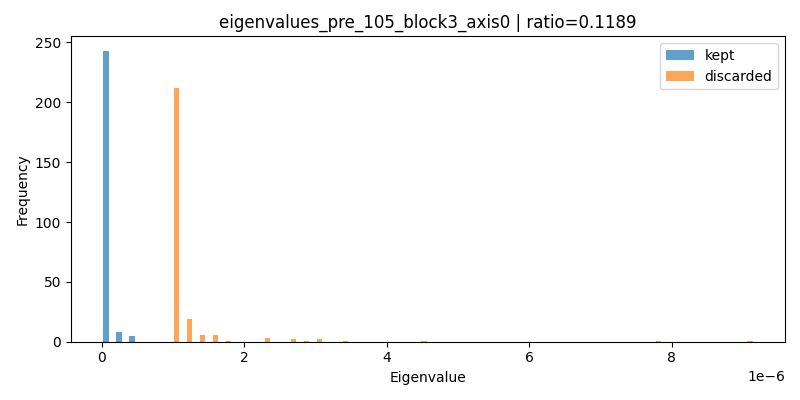
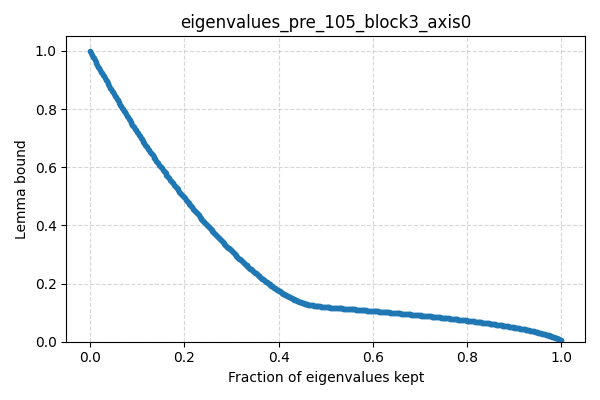
new kind of plots

diff --git a/plot_eigenvalues.py b/plot_eigenvalues.py
@@ -7,42 +7,69 @@ import csv
 import glob
 import math
 from pathlib import Path
+from typing import List, Tuple
 
 
-def load_spectrum(path: Path):
-    kept, discarded = [], []
+def load_eigenvalues(path: Path) -> List[float]:
+    values: List[float] = []
     with path.open() as fh:
         reader = csv.reader(fh)
         header = next(reader, None)
-        for row in reader:
-            if not row:
-                continue
-            label, value = row[0], float(row[1])
-            if label == "kept":
-                kept.append(value)
-            elif label == "discarded":
-                discarded.append(value)
-    return kept, discarded
+        if header is None:
+            return values
+        header_lower = [h.lower() for h in header]
+        if header_lower == ["category", "value"]:
+            kept: List[float] = []
+            discarded: List[float] = []
+            for row in reader:
+                if not row:
+                    continue
+                label, value = row[0], float(row[1])
+                if label == "kept":
+                    kept.append(value)
+                elif label == "discarded":
+                    discarded.append(value)
+            values = sorted(kept + discarded)
+        elif header_lower == ["rank", "value"]:
+            for row in reader:
+                if not row:
+                    continue
+                _, value = row
+                values.append(float(value))
+        else:
+            raise ValueError(f"Unrecognized header in {path}: {header}")
+    return sorted(values)
 
 
-def lemma_ratio(kept, discarded, s=-0.25):
-    if not kept and not discarded:
-        return float("nan")
-    exponent = 2 * s
+def truncation_curve(eigenvalues: List[float], s: float = -0.25) -> Tuple[List[float], List[float]]:
+    n = len(eigenvalues)
+    if n == 0:
+        return [0.0], [float("nan")]
     eps = 1e-12
-    all_vals = kept + discarded
-    denom = sum(max(abs(v), eps) ** exponent for v in all_vals)
+    exponent = 2 * s
+    weights = [max(abs(v), eps) ** exponent for v in eigenvalues]
+    denom = sum(weights)
     if denom == 0:
-        return float("nan")
-    numer = sum(max(abs(v), eps) ** exponent for v in discarded)
-    return math.sqrt(numer / denom)
+        return [0.0], [float("nan")]
+    tail = [0.0] * (n + 1)
+    for i in range(n - 1, -1, -1):
+        tail[i] = tail[i + 1] + weights[i]
+
+    fractions: List[float] = []
+    ratios: List[float] = []
+    for k in range(n + 1):
+        complement = tail[k]
+        ratio = math.sqrt(complement / denom)
+        fractions.append(k / n)
+        ratios.append(ratio)
+    return fractions, ratios
 
 
 def main():
     parser = argparse.ArgumentParser(description=__doc__)
     parser.add_argument("--pattern", default="logs/eigenvalues_*.csv", help="Glob pattern for eigenvalue CSV files.")
     parser.add_argument("--output", default="plots/eigenvalues", help="Directory to store generated plots.")
-    parser.add_argument("--bins", type=int, default=50, help="Histogram bins for kept/discarded spectra.")
+    parser.add_argument("--s", type=float, default=-0.25, help="Exponent s used in the lemma (default -0.25).")
     args = parser.parse_args()
 
     files = sorted(Path(p) for p in glob.glob(args.pattern))
@@ -58,15 +85,16 @@ def main():
     output_dir.mkdir(parents=True, exist_ok=True)
 
     for path in files:
-        kept, discarded = load_spectrum(path)
-        ratio = lemma_ratio(kept, discarded)
+        eigenvalues = load_eigenvalues(path)
+        fractions, ratios = truncation_curve(eigenvalues, s=args.s)
 
-        fig, ax = plt.subplots(figsize=(8, 4))
-        ax.hist([kept, discarded], bins=args.bins, label=["kept", "discarded"], alpha=0.7)
-        ax.set_title(f"{path.stem} | ratio={ratio:.4f}")
-        ax.set_xlabel("Eigenvalue")
-        ax.set_ylabel("Frequency")
-        ax.legend()
+        fig, ax = plt.subplots(figsize=(6, 4))
+        ax.plot(fractions, ratios, marker="o", markersize=3)
+        ax.set_title(f"{path.stem}")
+        ax.set_xlabel("Fraction of eigenvalues kept")
+        ax.set_ylabel("Lemma bound")
+        ax.set_ylim(0, 1.05)
+        ax.grid(True, linestyle="--", alpha=0.5)
         fig.tight_layout()
 
         outfile = output_dir / f"{path.stem}.png"

diff --git a/qtensor/utils.py b/qtensor/utils.py
@@ -181,13 +181,11 @@ class QTensorSVDFast:
             safe_prefix = re.sub(r"[^A-Za-z0-9_.-]", "_", self.log_prefix)
             path = log_dir / f"eigenvalues_{safe_prefix}.csv"
             with open(path, "w", encoding="utf-8") as f:
-                f.write("category,value\n")
-                for val in kept:
-                    f.write(f"kept,{float(val)}\n")
-                for val in discarded:
-                    f.write(f"discarded,{float(val)}\n")
-                f.write(f"ratio_kept,{kept_sum / total_sum if total_sum != 0 else 0.0}\n")
-                f.write(f"ratio_discarded,{discarded_sum / total_sum if total_sum != 0 else 0.0}\n")
+                f.write("rank,value\n")
+                for idx, val in enumerate(kept, start=1):
+                    f.write(f"{idx},{float(val)}\n")
+                for offset, val in enumerate(discarded, start=len(kept) + 1):
+                    f.write(f"{offset},{float(val)}\n")
             self._log_written = True
 
 
